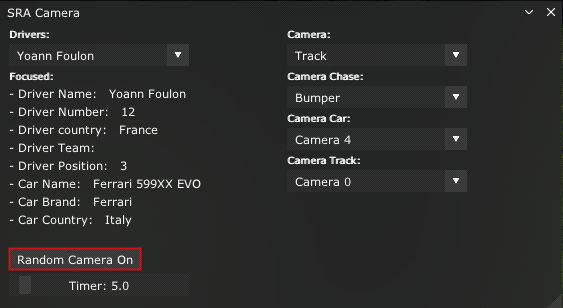
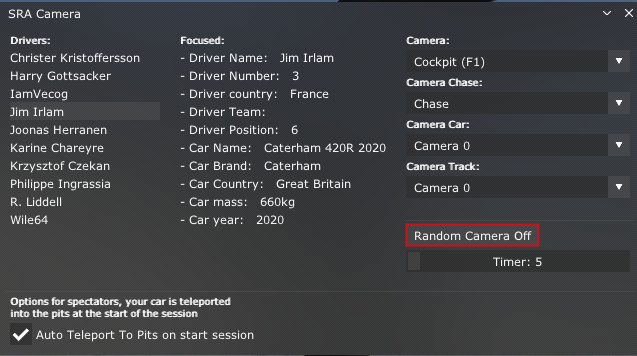
Update sra_camera and add sra_admin

diff --git a/README.md b/README.md
@@ -178,11 +178,26 @@ _* Certaines infos ne fonctionne pas pour les autres voitures._
 **Petit outil pour changer de camera.**
 
 <ul>
+<li>Sélectionner un pilote</li>
 <li>Changer de vue facilement avec les controles de droite</li>
 <li>Aide des controles de la vue si disponible</li>
 <li>Bouton pour activer le changement de vue alétoire</li>
 <li>Changement du timer aléatoire de 2 a 60 secondes</li>
 <li>Information sur la voiture/pilote selectionné</li>
+<li>Une option pour téléporter automatiquement votre voiture dans les stands au début de la session</li>
+</ul>
+
+## sra_admin
+<p><img src="admin.png" /></p>
+
+**Petit outil pour faciliter les admins.**
+
+<ul>
+<li>Sauvegarder le MDP dans les paramètres et connectez vous en 1 clic</li>
+<li>Changer de climat</li>
+<li>Sélectionner un pilote</li>
+<li>Pour lui appliquer du ballast, une restriction, le kick ou autres</li>
+<li>Appliquer du ballast ou une restriction a tous les pilotes</li>
 </ul>
 
 ## sra_setup
